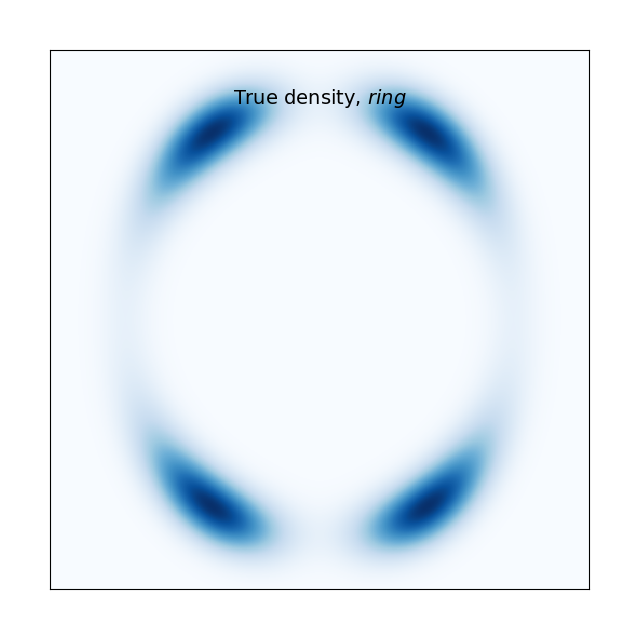
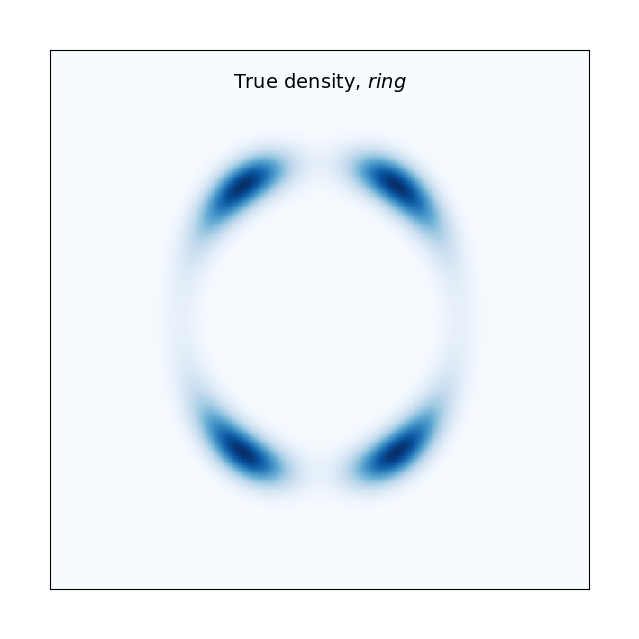
Update ring plots. Remove unused imports from eval

Changed region(s): [[0.1784, 0.0892, 0.8028, 0.446], [0.5055, 0.5649, 0.8326, 0.892], [0.1784, 0.5649, 0.4757, 0.892]]

diff --git a/eval.py b/eval.py
@@ -1,7 +1,4 @@
-import os
-import numpy as np
 import torch
-import torch.nn as nn
 import matplotlib.pyplot as plt
 from planar_flow import PlanarFlow
 from target_distribution import TargetDistribution
@@ -9,13 +6,13 @@ from utils.plot import plot_density, plot_transformation, plot_comparison
 from utils.gif import make_gif_from_train_plots
 
 # ------------ parameters ------------
-target_distr = "U_2"  # U_1, U_2, U_3, U_4, ring
-flow_length = 16
+target_distr = "ring"  # U_1, U_2, U_3, U_4, ring
+flow_length = 32
 dim = 2
 n_samples = 500
 batch_size = 128
 lr = 6e-4
-xlim = ylim = 5
+xlim = ylim = 7
 
 FNAME_TRUE = f"results/{target_distr}_true_density.png"
 FNAME_ESTIMATED = f"results/{target_distr}_K{flow_length}_estimated_density.png"

diff --git a/train.py b/train.py
@@ -9,13 +9,13 @@ from utils.plot import plot_transformation
 
 if __name__ == "__main__":
     # ------------ parameters ------------
-    target_distr = "U_2"  # U_1, U_2, U_3, U_4, ring
-    flow_length = 16
+    target_distr = "ring"  # U_1, U_2, U_3, U_4, ring
+    flow_length = 32
     dim = 2
-    num_batches = 10000
+    num_batches = 20000
     batch_size = 128
     lr = 6e-4
-    xlim = ylim = 5  # 5 for U_1 to U_4, 7 for ring
+    xlim = ylim = 7  # 5 for U_1 to U_4, 7 for ring
     # ------------------------------------
 
     density = TargetDistribution(target_distr)

diff --git a/utils/plot.py b/utils/plot.py
@@ -72,7 +72,7 @@ def plot_transformation(model, n=500, xlim=4, ylim=4, ax=None):
         zk[:, 0].detach().data.reshape(n, n),
         zk[:, 1].detach().data.reshape(n, n),
         qk.detach().data.reshape(n, n),
-        cmap="Reds",
+        cmap="Blues",
         rasterized=True,
     )
 
@@ -88,7 +88,7 @@ def plot_transformation(model, n=500, xlim=4, ylim=4, ax=None):
         labelbottom=False,
     )
 
-    ax.set_facecolor(plt.cm.Reds(0.0))
+    ax.set_facecolor(plt.cm.Blues(0.0))
     return ax
 
 

diff --git a/target_distribution.py b/target_distribution.py
@@ -63,7 +63,7 @@ class TargetDistribution:
                 return u
 
             return U_4
-        elif str == "ring":
+        elif name == "ring":
 
             def ring_density(z):
                 exp1 = torch.exp(-0.5 * ((z[:, 0] - 2) / 0.8) ** 2)
